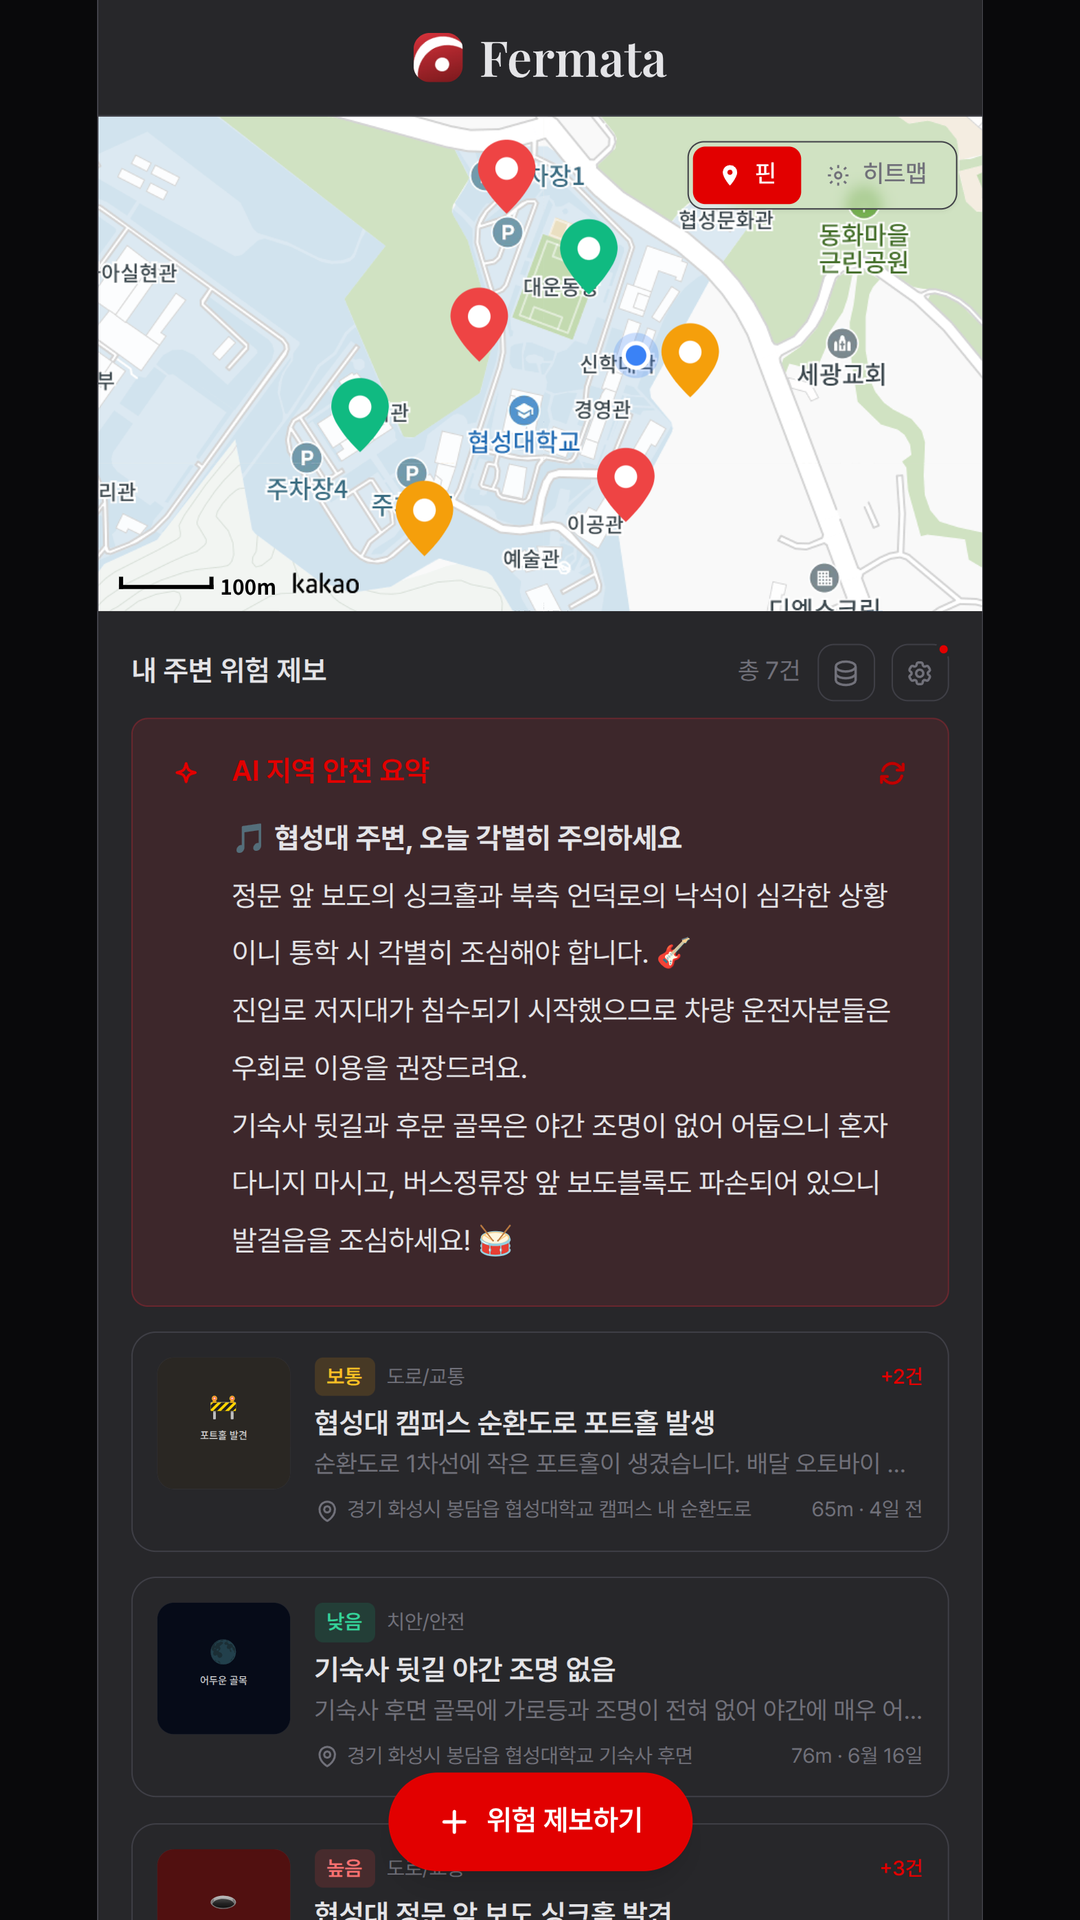
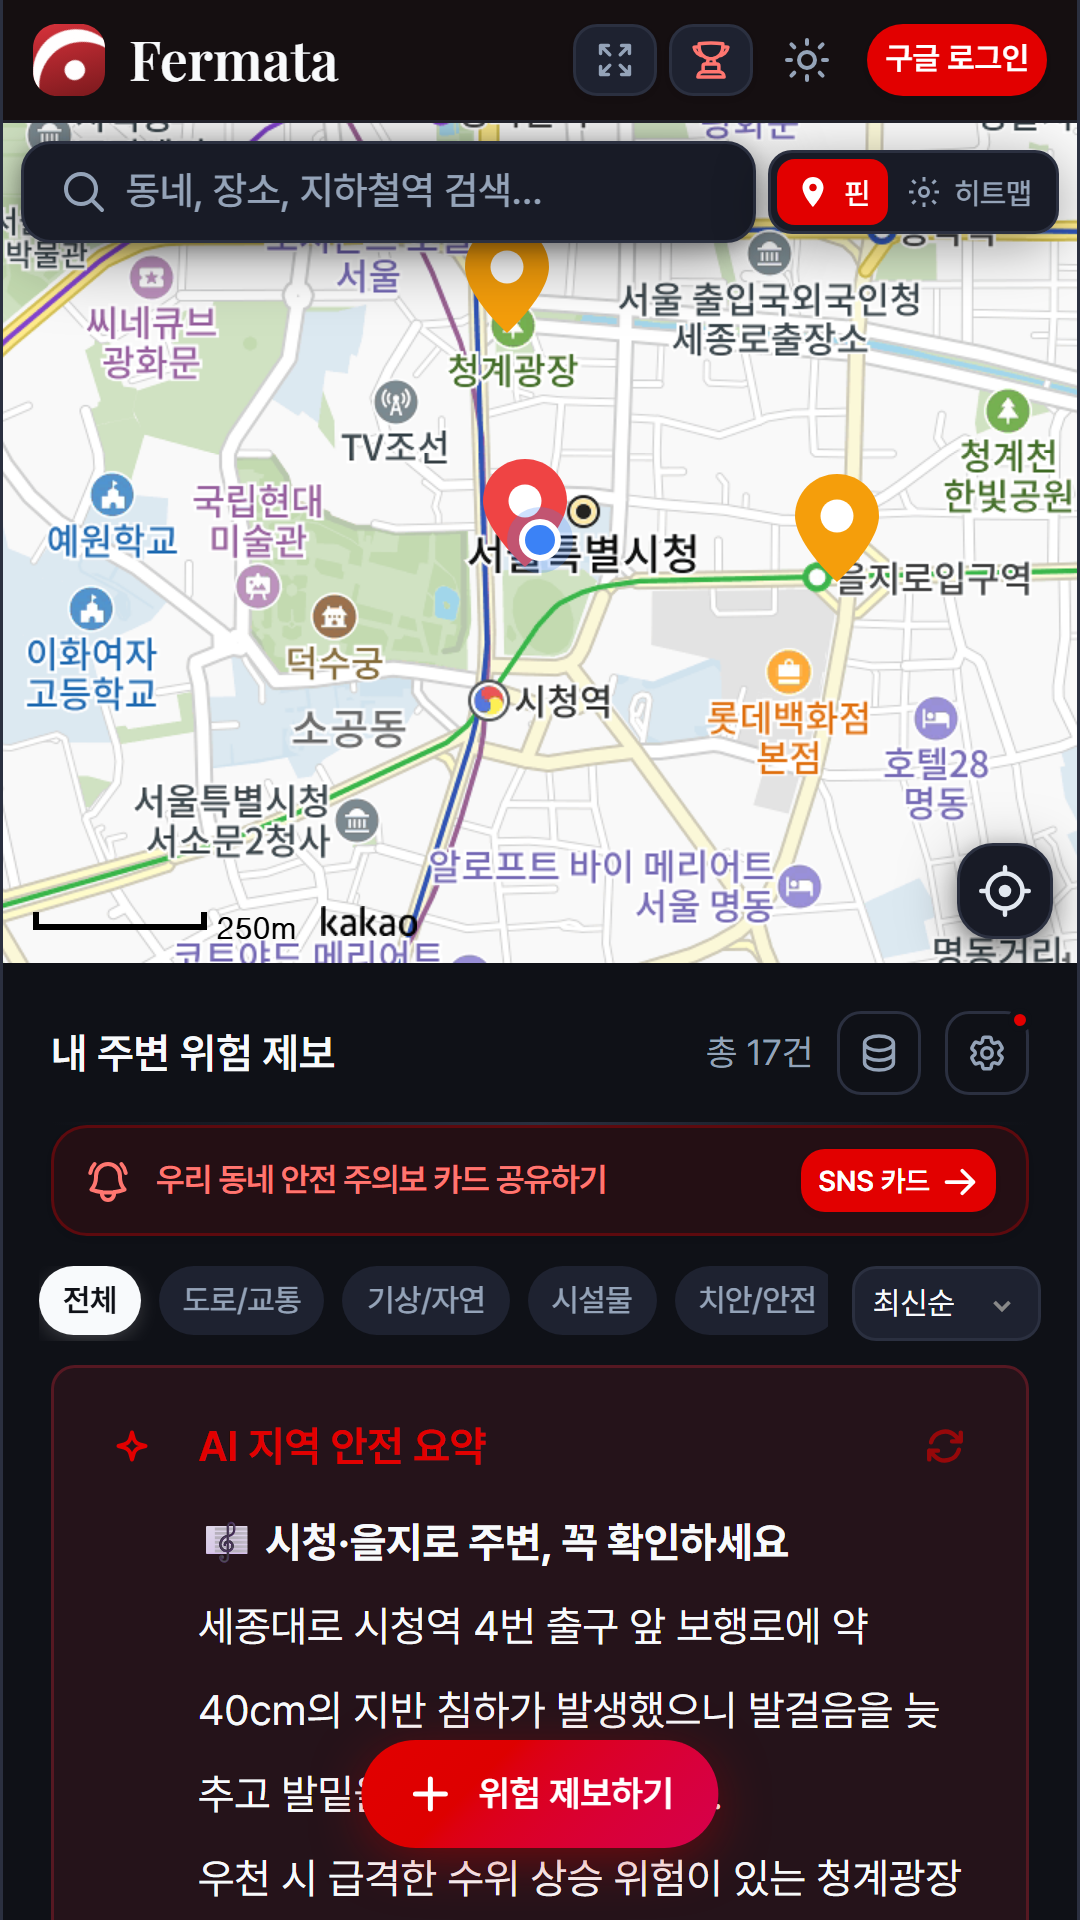
feat: add in-app account deletion, overseas transfer policy, and fresh 9:16 store screenshots

diff --git a/privacy.html b/privacy.html
@@ -126,26 +126,63 @@
       </section>
 
       <section class="space-y-2.5">
-        <h2 class="text-lg font-bold text-white">4. 개인정보의 보유·이용 기간 및 파기</h2>
+        <h2 class="text-lg font-bold text-white">4. 개인정보의 국외 이전</h2>
+        <p>
+          서비스는 클라우드 인프라 및 AI 기능 제공을 위해 「개인정보 보호법」 제28조의8에 따라 아래와 같이 이용자의 개인정보를 국외로 이전하여 처리합니다.
+        </p>
+        <div class="overflow-x-auto rounded-xl border border-zinc-800">
+          <table class="w-full text-left text-xs">
+            <thead class="bg-zinc-900 text-zinc-300 border-b border-zinc-800">
+              <tr>
+                <th class="px-3.5 py-2.5 font-semibold">이전받는 자 (연락처)</th>
+                <th class="px-3.5 py-2.5 font-semibold">이전 국가</th>
+                <th class="px-3.5 py-2.5 font-semibold">이전 항목 및 일시·방법</th>
+                <th class="px-3.5 py-2.5 font-semibold">이용 목적 및 보유·이용 기간</th>
+              </tr>
+            </thead>
+            <tbody class="divide-y divide-zinc-800/80">
+              <tr>
+                <td class="px-3.5 py-3 font-medium text-white">Google LLC<br><span class="text-[11px] font-normal text-zinc-400">(Firebase / Gemini API)<br>privacy.google.com</span></td>
+                <td class="px-3.5 py-3">미국 및 Google 글로벌 데이터센터 소재국</td>
+                <td class="px-3.5 py-3">이름, 이메일, UID, 프로필 사진 URL, 위치 좌표, 제보·댓글·사진, 앱 이용 로그<br><span class="text-zinc-400">· 서비스 이용 시 HTTPS(TLS) 암호화 네트워크 전송</span></td>
+                <td class="px-3.5 py-3">회원 인증, 데이터 저장, AI 안전 요약 생성, 서비스 분석<br><span class="text-zinc-400">· 회원 탈퇴 또는 목적 달성 시까지</span></td>
+              </tr>
+              <tr>
+                <td class="px-3.5 py-3 font-medium text-white">Cloudflare, Inc.<br><span class="text-[11px] font-normal text-zinc-400">(Workers / Workers AI)<br>privacyquestions@cloudflare.com</span></td>
+                <td class="px-3.5 py-3">미국 및 Cloudflare 글로벌 엣지 네트워크 소재국</td>
+                <td class="px-3.5 py-3">위험 제보 제목·설명 텍스트, 접속 IP<br><span class="text-zinc-400">· 제보 등록 및 AI 요약 요청 시 HTTPS(TLS) 암호화 전송</span></td>
+                <td class="px-3.5 py-3">제보 위험도·분야 자동 분류 및 AI 요약 중계<br><span class="text-zinc-400">· 요청 처리 완료 즉시 파기(미저장)</span></td>
+              </tr>
+            </tbody>
+          </table>
+        </div>
+        <p class="text-xs text-zinc-400">
+          ※ 이용자는 국외 이전을 거부할 수 있으며, 앱 내 <strong>[마이페이지 → 계정 삭제]</strong> 또는 개인정보 보호책임자 이메일을 통해 동의를 철회(회원 탈퇴)할 수 있습니다. 다만 국외 이전 거부 시 로그인, 제보 저장 및 AI 요약 등 핵심 서비스 이용이 제한됩니다.
+        </p>
+      </section>
+
+      <section class="space-y-2.5">
+        <h2 class="text-lg font-bold text-white">5. 개인정보의 보유·이용 기간 및 파기</h2>
         <ul class="list-disc pl-5 space-y-1.5">
           <li><strong>회원 정보</strong>: 회원 탈퇴 또는 계정 삭제 요청 시 지체 없이 파기합니다.</li>
-          <li><strong>제보 및 댓글 데이터</strong>: 이용자가 직접 삭제하거나 서비스 운영 목적 달성 시 지체 없이 파기합니다.</li>
-          <li><strong>기기 내 로컬 캐시(localStorage / IndexedDB)</strong>: 오프라인 지원 및 성능 최적화를 위해 기기에 임시 저장되며, 로그아웃 또는 브라우저 데이터 삭제 시 즉시 제거됩니다.</li>
+          <li><strong>제보 및 댓글 데이터</strong>: 이용자가 직접 삭제하거나 계정 삭제(회원 탈퇴) 시 지체 없이 파기합니다.</li>
+          <li><strong>기기 내 로컬 캐시(localStorage / IndexedDB)</strong>: 오프라인 지원 및 성능 최적화를 위해 기기에 임시 저장되며, 로그아웃·계정 삭제 또는 브라우저 데이터 삭제 시 즉시 제거됩니다.</li>
         </ul>
       </section>
 
       <section class="space-y-2.5">
-        <h2 class="text-lg font-bold text-white">5. 이용자의 권리 및 계정·데이터 삭제 방법</h2>
+        <h2 class="text-lg font-bold text-white">6. 이용자의 권리 및 계정·데이터 삭제 방법</h2>
         <p>이용자는 언제든지 자신의 개인정보를 열람·수정·삭제할 수 있습니다.</p>
         <ul class="list-disc pl-5 space-y-1.5">
-          <li><strong>개별 제보 삭제</strong>: 앱 내 상세 페이지 또는 마이페이지에서 본인이 등록한 제보를 즉시 삭제할 수 있습니다.</li>
+          <li><strong>앱 내 즉시 계정 삭제 (회원 탈퇴)</strong>: 앱 로그인 후 <strong>[마이페이지 → 계정 삭제(회원 탈퇴)]</strong> 버튼을 통해 본인이 작성한 제보와 계정 정보를 즉시 영구 삭제할 수 있습니다. (보안을 위해 Google 재인증이 요구될 수 있습니다.)</li>
+          <li><strong>개별 제보 삭제</strong>: 앱 내 상세 페이지에서 본인이 등록한 개별 제보를 즉시 삭제할 수 있습니다.</li>
           <li><strong>위치 권한 철회</strong>: 기기 설정 또는 브라우저 권한 설정에서 언제든지 위치 정보 접근을 거부할 수 있습니다.</li>
-          <li><strong>계정 및 전체 데이터 삭제 요청</strong>: 아래 개인정보 보호책임자 이메일로 계정(이메일 주소) 삭제를 요청하시면 본인 확인 후 영업일 기준 7일 이내에 모든 관련 데이터를 영구 삭제하고 결과를 안내해 드립니다.</li>
+          <li><strong>웹/이메일을 통한 계정 삭제 요청</strong>: 앱에 접속할 수 없는 경우 아래 개인정보 보호책임자 이메일로 가입 이메일 주소를 알려주시면 본인 확인 후 영업일 기준 7일 이내에 모든 계정 및 관련 데이터를 영구 삭제하고 결과를 안내해 드립니다.</li>
         </ul>
       </section>
 
       <section class="space-y-2.5">
-        <h2 class="text-lg font-bold text-white">6. 개인정보의 안전성 확보 조치</h2>
+        <h2 class="text-lg font-bold text-white">7. 개인정보의 안전성 확보 조치</h2>
         <ul class="list-disc pl-5 space-y-1.5">
           <li><strong>전송 구간 암호화</strong>: 모든 서버·API 통신에 HTTPS(TLS) 암호화를 적용합니다.</li>
           <li><strong>접근 권한 통제</strong>: Firebase Firestore 보안 규칙을 통해 본인 작성 콘텐츠 및 관리자 권한(UID 기반)을 엄격히 분리·통제합니다.</li>
@@ -154,21 +191,21 @@
       </section>
 
       <section class="space-y-2.5">
-        <h2 class="text-lg font-bold text-white">7. 아동의 개인정보 보호</h2>
+        <h2 class="text-lg font-bold text-white">8. 아동의 개인정보 보호</h2>
         <p>본 서비스는 만 14세 미만 아동의 개인정보를 의도적으로 수집하지 않습니다. 만 14세 미만 아동의 정보가 수집된 사실을 인지한 경우 지체 없이 해당 정보를 삭제합니다.</p>
       </section>
 
       <section class="space-y-2.5">
-        <h2 class="text-lg font-bold text-white">8. 개인정보 보호책임자 및 문의처</h2>
+        <h2 class="text-lg font-bold text-white">9. 개인정보 보호책임자 및 문의처</h2>
         <div class="p-4 rounded-xl bg-zinc-900 border border-zinc-800 space-y-1 text-xs">
           <p><strong class="text-white">서비스명</strong>: Fermata (지역 안전 나눔 커뮤니티)</p>
-          <p><strong class="text-white">담당팀</strong>: Fermata 운영팀 (2026 HS Hackathon)</p>
+          <p><strong class="text-white">운영주체</strong>: Fermata 운영팀</p>
           <p><strong class="text-white">문의 이메일</strong>: <a href="mailto:lshjhj0819@naver.com" class="text-rose-400 hover:underline">lshjhj0819@naver.com</a></p>
         </div>
       </section>
 
       <section class="space-y-2">
-        <h2 class="text-lg font-bold text-white">9. 개인정보처리방침의 변경</h2>
+        <h2 class="text-lg font-bold text-white">10. 개인정보처리방침의 변경</h2>
         <p>본 개인정보처리방침의 내용이 추가·삭제 및 수정되는 경우, 변경 사항의 시행일 최소 7일 전부터 서비스 내 공지사항 또는 본 페이지를 통해 고지합니다.</p>
       </section>
     </div>

diff --git a/src/mypage.js b/src/mypage.js
@@ -1,11 +1,16 @@
 import { initTheme } from './theme.js';
-import { listenAuthState, logout } from './auth.js';
-import { getReportsByUserId } from './storage.js';
+import { listenAuthState, logout, deleteCurrentAccount, getCurrentUser } from './auth.js';
+import { getReportsByUserId, deleteReport } from './storage.js';
 import { dangerStyle, categoryLabel, relativeTime, escapeHtml, safeImageSrc, toMillis } from './utils.js';
 
 initTheme();
 
-document.getElementById('nav-home').href = `${import.meta.env.BASE_URL}index.html`;
+const BASE = import.meta.env.BASE_URL;
+document.getElementById('nav-home').href = `${BASE}index.html`;
+const navPrivacy = document.getElementById('nav-privacy');
+if (navPrivacy) navPrivacy.href = `${BASE}privacy.html`;
+const navTerms = document.getElementById('nav-terms');
+if (navTerms) navTerms.href = `${BASE}terms.html`;
 
 // 로그아웃 처리
 let loggingOut = false;
@@ -13,11 +18,70 @@ const handleLogout = async () => {
   if (confirm('로그아웃 하시겠습니까?')) {
     loggingOut = true;
     await logout();
-    location.href = `${import.meta.env.BASE_URL}index.html`;
+    location.href = `${BASE}index.html`;
   }
 };
 document.getElementById('logout-btn')?.addEventListener('click', handleLogout);
 document.getElementById('profile-logout-btn')?.addEventListener('click', handleLogout);
+
+// 계정 삭제 (회원 탈퇴) 처리
+const deleteAccountBtn = document.getElementById('delete-account-btn');
+deleteAccountBtn?.addEventListener('click', async () => {
+  const user = getCurrentUser();
+  if (!user) return;
+
+  if (!confirm('정말로 계정을 삭제(회원 탈퇴)하시겠습니까?\n작성하신 모든 제보와 계정 정보가 영구 삭제되며 복구할 수 없습니다.')) {
+    return;
+  }
+
+  deleteAccountBtn.disabled = true;
+  const originalHtml = deleteAccountBtn.innerHTML;
+  deleteAccountBtn.textContent = '계정 삭제 처리 중...';
+  loggingOut = true;
+
+  try {
+    // 1. 본인이 작성한 제보 데이터 정리
+    try {
+      const myReports = await getReportsByUserId(user.uid);
+      for (const rep of myReports) {
+        try {
+          await deleteReport(rep.id);
+        } catch (err) {
+          console.warn('[mypage] 제보 삭제 건너뜀:', rep.id, err);
+        }
+      }
+    } catch (err) {
+      console.warn('[mypage] 내 제보 조회 실패:', err);
+    }
+
+    // 2. Firebase 인증 계정 영구 삭제 (필요 시 Google 재인증 팝업 자동 표시)
+    const result = await deleteCurrentAccount();
+    if (result.cancelled) {
+      loggingOut = false;
+      deleteAccountBtn.disabled = false;
+      deleteAccountBtn.innerHTML = originalHtml;
+      alert('본인 확인(재인증)이 취소되어 계정 삭제가 중단되었습니다.');
+      return;
+    }
+
+    // 3. 로컬 캐시 정리
+    try {
+      localStorage.removeItem('reports');
+      localStorage.removeItem('clusters');
+      localStorage.removeItem('fermata_ai_summary_cache');
+      localStorage.removeItem('gemini_api_key');
+    } catch {}
+
+    alert('계정 및 관련 데이터가 모두 삭제되었습니다.');
+    location.href = `${BASE}index.html`;
+  } catch (err) {
+    console.error('[mypage] 계정 삭제 실패:', err);
+    loggingOut = false;
+    deleteAccountBtn.disabled = false;
+    deleteAccountBtn.innerHTML = originalHtml;
+    alert('계정 삭제 중 오류가 발생했습니다. 다시 로그인한 뒤 시도하거나 lshjhj0819@naver.com 으로 문의해 주세요.');
+  }
+});
 
 const profileName = document.getElementById('profile-name');
 const profileEmail = document.getElementById('profile-email');

diff --git a/src/auth.js b/src/auth.js
@@ -1,6 +1,6 @@
 import { auth, db, googleProvider } from './firebase.js';
 import { doc, getDoc, getDocFromServer } from "firebase/firestore";
-import { GoogleAuthProvider, signInWithPopup, signOut, onAuthStateChanged } from "firebase/auth";
+import { GoogleAuthProvider, signInWithPopup, signOut, onAuthStateChanged, deleteUser, reauthenticateWithPopup } from "firebase/auth";
 
 /**
  * 구글 소셜 로그인 팝업을 엽니다.
@@ -115,4 +115,35 @@ export async function waitForAuth() {
  */
 export function getCurrentUser() {
   return auth.currentUser;
+}
+
+/**
+ * 현재 로그인된 사용자의 계정을 영구 삭제합니다.
+ * 최근 로그인 시간이 오래된 경우(auth/requires-recent-login) Google 재인증 팝업을 자동으로 띄워 재시도합니다.
+ * @returns {Promise<{ deleted: boolean, cancelled?: boolean }>}
+ */
+export async function deleteCurrentAccount() {
+  const user = auth.currentUser;
+  if (!user) throw new Error('로그인된 계정이 없습니다.');
+
+  try {
+    await deleteUser(user);
+    return { deleted: true };
+  } catch (error) {
+    if (error?.code === 'auth/requires-recent-login') {
+      try {
+        const provider = new GoogleAuthProvider();
+        provider.setCustomParameters({ prompt: 'select_account' });
+        await reauthenticateWithPopup(user, provider);
+        await deleteUser(user);
+        return { deleted: true };
+      } catch (reauthError) {
+        if (reauthError?.code === 'auth/popup-closed-by-user' || reauthError?.code === 'auth/cancelled-popup-request') {
+          return { deleted: false, cancelled: true };
+        }
+        throw reauthError;
+      }
+    }
+    throw error;
+  }
 }

diff --git a/mypage.html b/mypage.html
@@ -120,6 +120,22 @@
         <p class="text-sm text-muted-foreground text-center">작성한 제보가 없습니다.</p>
       </div>
 
+      <!-- 정책 및 계정 관리 -->
+      <section class="mx-4 mt-8 pt-6 border-t border-border space-y-3">
+        <div class="flex items-center justify-center gap-4 text-xs text-muted-foreground">
+          <a id="nav-privacy" href="privacy.html" class="hover:text-foreground underline underline-offset-4 transition">개인정보처리방침</a>
+          <span class="opacity-40">|</span>
+          <a id="nav-terms" href="terms.html" class="hover:text-foreground underline underline-offset-4 transition">이용약관·커뮤니티 방침</a>
+        </div>
+        <button id="delete-account-btn" type="button"
+          class="w-full py-2.5 px-4 rounded-xl border border-red-500/30 bg-red-500/5 hover:bg-red-500/15 text-red-500 text-xs font-semibold transition-all flex items-center justify-center gap-1.5">
+          <svg class="w-3.5 h-3.5 shrink-0" fill="none" stroke="currentColor" stroke-width="2" viewBox="0 0 24 24">
+            <path stroke-linecap="round" stroke-linejoin="round" d="M14.74 9l-.346 9m-4.788 0L9.26 9m9.968-3.21c.342.052.682.107 1.022.166m-1.022-.165L18.16 19.673a2.25 2.25 0 01-2.244 2.077H8.084a2.25 2.25 0 01-2.244-2.077L4.772 5.79m14.456 0a48.108 48.108 0 00-3.478-.397m-12 .562c.34-.059.68-.114 1.022-.165m0 0a48.11 48.11 0 013.478-.397m7.5 0v-.916c0-1.18-.91-2.164-2.09-2.201a51.964 51.964 0 00-3.32 0c-1.18.037-2.09 1.022-2.09 2.201v.916m7.5 0a48.667 48.667 0 00-7.5 0"/>
+          </svg>
+          <span>계정 삭제 (회원 탈퇴)</span>
+        </button>
+      </section>
+
     </main>
   </div>
 
